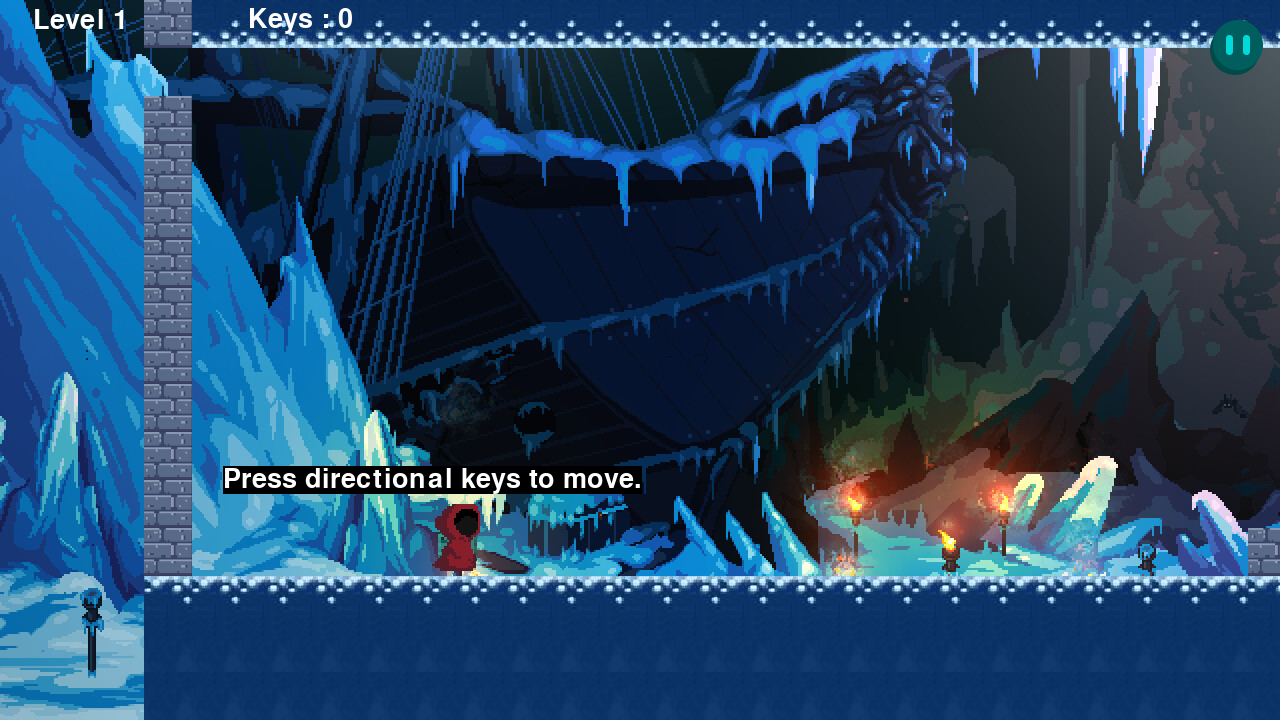
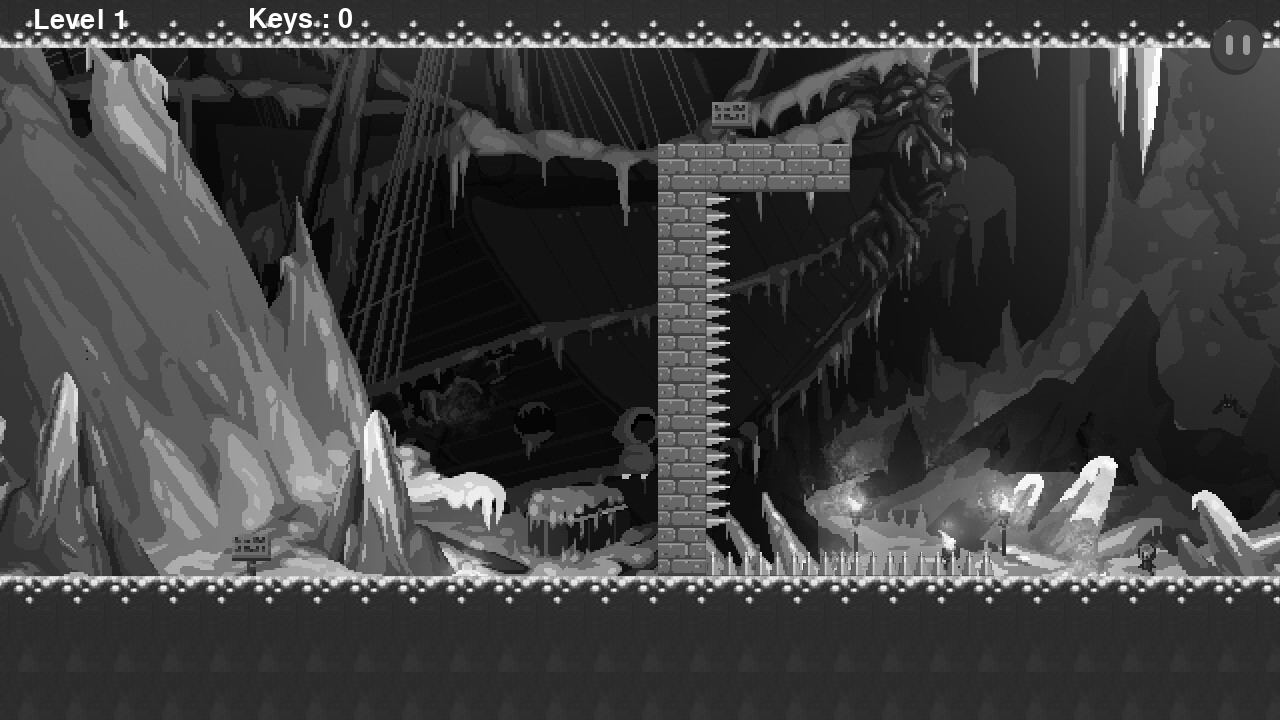
fzrgr

diff --git a/main2.py b/main2.py
@@ -9,6 +9,8 @@ import select
 import button
 import json
 import button
+from PIL import Image
+from datetime import datetime
 
 class Level:
     def __init__(self, level_data, surface, spawn):
@@ -450,11 +452,22 @@ def main(level_map):
                 if state == RUNNING:
                     if event.key == pygame.K_ESCAPE:
                         pygame.image.save(screen,"./cache/pause-screen-cache.png")
+                        cache = Image.open("./cache/pause-screen-cache.png")
+                        cache = cache.convert("L")
+                        cache = cache.save("./cache/pause-screen-cache.png")
                         cache = pygame.image.load("./cache/pause-screen-cache.png")
                         state = PAUSE
                 else:
                     if event.key == pygame.K_ESCAPE:
                         state = RUNNING
+                if event.key == pygame.K_s:
+                    date = datetime.now()
+                    day = date.day
+                    month = date.month
+                    year = date.year
+                    hour = date.hour
+                    minute = date.minute
+                    pygame.image.save(screen, f"./screenshot/{year}_{month}_{day}-{hour}_{minute}.png")
         else:
             screen.fill((0, 0, 0))
 
@@ -468,13 +481,16 @@ def main(level_map):
                     if pygame.mouse.get_pressed()[0]:	#Check click button and react
                         if WIDTH-70 <= mouse[0] <= WIDTH-70+53 and HEIGHT-(HEIGHT-20) <= mouse[1] <= HEIGHT-(HEIGHT-20)+55: #pause buton
                             pygame.image.save(screen,"./cache/pause-screen-cache.png")
+                            cache = Image.open("./cache/pause-screen-cache.png")
+                            cache = cache.convert("L")  #convert image in black and white
+                            cache = cache.save("./cache/pause-screen-cache.png")
                             cache = pygame.image.load("./cache/pause-screen-cache.png")
                             state = PAUSE
                             time.sleep(0.3)
 
             elif state == PAUSE:
                 screen.blit(cache, (0,0))
-                screen.blit(pause_text, (WIDTH/2-48, 100))     #text "pause"
+                screen.blit(pause_text, (WIDTH/2-65, 100))     #text "pause"
                 screen.blit(pause,(WIDTH-70, HEIGHT-(HEIGHT-20)))   #pause button
                 buttons_draw(screen)	#show button
 
